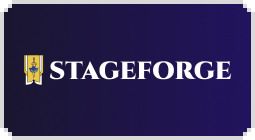
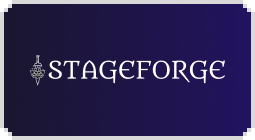
docs: added MoodForge

Changed region(s): [[0.0824, 0.3714, 0.9059, 0.6286]]

diff --git a/style/style.css b/style/style.css
@@ -1,1 +1,1 @@
-:root{--color-text: #ffffff;--color-text-hover: #cccccc;--color-bg-primary: #13102b;--color-bg-secondary: #181435;--color-link: #ffffff;--font-base: "Montserrat", sans-serif;--font-size-h2: 32px;--font-size-h3-lg: 18px;--font-size-h3-sm: 16px;--font-size-body: 13px;--font-weight-light: 300;--space-xs: 4px;--space-sm: 8px;--space-md: 16px;--space-lg: 32px;--space-xl: 48px;--grid-columns: 12;--grid-max-width: 1120px}html,body{margin:0;padding:0;background-color:#13102b}body{color:var(--color-text);font-family:var(--font-base);background:none}h1{display:none}h2{font-size:var(--font-size-h2);font-weight:var(--font-weight-light);margin:0}a{color:var(--color-text);text-decoration:none;transition:ease-in 200ms}a:hover{color:var(--color-text-hover)}a span{text-decoration:underline}.bg-layer{position:fixed;top:calc(-1*env(safe-area-inset-top));left:calc(-1*env(safe-area-inset-left));right:calc(-1*env(safe-area-inset-right));bottom:calc(-1*env(safe-area-inset-bottom));z-index:-1;background:linear-gradient(180deg, rgb(19, 16, 43) 0%, rgb(19, 16, 43) 25%, rgb(24, 20, 53) 25%, rgb(24, 20, 53) 41%, rgb(28, 24, 61) 41%, rgb(28, 24, 61) 54%, rgb(30, 27, 70) 54%, rgb(30, 27, 70) 70%, rgb(35, 31, 82) 70%, rgb(35, 31, 82) 100%);transform:translateZ(0);will-change:transform}.container{display:grid;grid-template-columns:1fr;gap:var(--space-lg);width:100%;max-width:var(--grid-max-width);margin:var(--space-lg) auto;padding:0 var(--space-md);box-sizing:border-box}@media(min-width: 768px){.container{grid-template-columns:repeat(var(--grid-columns), 1fr);gap:var(--space-xl)}}header{grid-column:1/-1;text-align:center}header p{font-size:var(--font-size-h3-lg)}@media(min-width: 768px){header{grid-column:3/10}}.section-block{grid-column:1/-1;display:grid;grid-template-columns:1fr;gap:var(--space-lg)}@media(min-width: 768px){.section-block{grid-template-columns:repeat(var(--grid-columns), 1fr)}}.section-block h2{grid-column:1/13;font-size:var(--font-size-h2);font-weight:var(--font-weight-light)}.section-block img{max-width:100%}project-card{grid-column:span 3;font-weight:var(--font-weight-light)}@media(max-width: 768px){project-card{grid-column:span 12}}project-card h3{margin:0 0 var(--space-xs);font-weight:var(--font-weight-light)}project-card p{font-size:var(--font-size-body);margin:0}project-card .description{margin:var(--space-md) 0}project-card h3{font-size:var(--font-size-h3-lg)}person-card{grid-column:span 3;font-weight:var(--font-weight-light)}@media(max-width: 768px){person-card{grid-column:span 12}}person-card h3{margin:0 0 var(--space-xs);font-weight:var(--font-weight-light)}person-card p{font-size:var(--font-size-body);margin:0}person-card .description{margin:var(--space-md) 0}person-card h3{font-size:var(--font-size-h3-sm)}.links{display:flex;gap:var(--space-sm)}.links a{display:inline-flex;align-items:center;gap:var(--space-sm)}.icon{width:16px;height:16px}
+:root{--color-text: #ffffff;--color-text-hover: #cccccc;--color-bg-primary: #13102b;--color-bg-secondary: #181435;--color-link: #ffffff;--font-base: "Montserrat", sans-serif;--font-size-h2: 32px;--font-size-h3-lg: 18px;--font-size-h3-sm: 16px;--font-size-body: 13px;--font-weight-light: 300;--space-xs: 4px;--space-sm: 8px;--space-sm-md: 12px;--space-md: 16px;--space-lg: 32px;--space-xl: 48px;--grid-columns: 12;--grid-max-width: 1120px;--background-layer-01: rgba(19, 16, 43, 1);--background-layer-02: rgba(24, 20, 53, 1);--background-layer-03: rgba(28, 24, 61, 1);--background-layer-04: rgba(30, 27, 70, 1);--background-layer-05: rgba(35, 31, 82, 1)}html,body{margin:0;padding:0;background-color:#13102b}body{color:var(--color-text);font-family:var(--font-base);background:none}h1{display:none}h2{font-size:var(--font-size-h2);font-weight:var(--font-weight-light);margin:0}a{color:var(--color-text);text-decoration:none;transition:ease-in 200ms}a:hover{color:var(--color-text-hover)}a span{text-decoration:underline}.bg-layer{position:fixed;top:calc(-1*env(safe-area-inset-top));left:calc(-1*env(safe-area-inset-left));right:calc(-1*env(safe-area-inset-right));bottom:calc(-1*env(safe-area-inset-bottom));z-index:-1;background:linear-gradient(180deg, var(--background-layer-01) 0%, var(--background-layer-01) 25%, var(--background-layer-02) 25%, var(--background-layer-02) 41%, var(--background-layer-03) 41%, var(--background-layer-03) 54%, var(--background-layer-04) 54%, var(--background-layer-04) 70%, var(--background-layer-05) 70%, var(--background-layer-05) 100%);transform:translateZ(0);will-change:transform}.container{display:grid;grid-template-columns:1fr;gap:var(--space-lg);width:100%;max-width:var(--grid-max-width);margin:var(--space-lg) auto;padding:0 var(--space-md);box-sizing:border-box}@media(min-width: 768px){.container{grid-template-columns:repeat(var(--grid-columns), 1fr);gap:var(--space-xl)}}header{grid-column:1/-1;text-align:center}header p{font-size:var(--font-size-h3-lg)}@media(min-width: 768px){header{grid-column:3/10}}.section-block{grid-column:1/-1;display:grid;grid-template-columns:1fr;gap:var(--space-lg)}@media(min-width: 768px){.section-block{grid-template-columns:repeat(var(--grid-columns), 1fr)}}.section-block h2{grid-column:1/13;font-size:var(--font-size-h2);font-weight:var(--font-weight-light)}.section-block img{max-width:100%}project-card{grid-column:span 3;font-weight:var(--font-weight-light)}@media(max-width: 768px){project-card{grid-column:span 12}}project-card h3{margin:0 0 var(--space-xs);font-weight:var(--font-weight-light)}project-card p{font-size:var(--font-size-body);margin:0}project-card .description{margin:var(--space-md) 0}project-card h3{font-size:var(--font-size-h3-lg)}person-card{grid-column:span 3;font-weight:var(--font-weight-light)}@media(max-width: 768px){person-card{grid-column:span 12}}person-card h3{margin:0 0 var(--space-xs);font-weight:var(--font-weight-light)}person-card p{font-size:var(--font-size-body);margin:0}person-card .description{margin:var(--space-md) 0}@media screen and (max-width: 768px){person-card{display:flex;gap:var(--space-md)}person-card .description{margin:0}}person-card h3{font-size:var(--font-size-h3-sm)}.links{display:flex;gap:var(--space-sm);margin-top:var(--space-md)}.links a{display:inline-flex;align-items:center;gap:var(--space-sm)}@media screen and (max-width: 768px){.person-image{width:120px;height:120px}}.icon{width:var(--space-md);height:var(--space-md)}

diff --git a/components/dist/personCard.dev.js b/components/dist/personCard.dev.js
@@ -1,0 +1,55 @@
+"use strict";
+
+function _typeof(obj) { if (typeof Symbol === "function" && typeof Symbol.iterator === "symbol") { _typeof = function _typeof(obj) { return typeof obj; }; } else { _typeof = function _typeof(obj) { return obj && typeof Symbol === "function" && obj.constructor === Symbol && obj !== Symbol.prototype ? "symbol" : typeof obj; }; } return _typeof(obj); }
+
+function _classCallCheck(instance, Constructor) { if (!(instance instanceof Constructor)) { throw new TypeError("Cannot call a class as a function"); } }
+
+function _defineProperties(target, props) { for (var i = 0; i < props.length; i++) { var descriptor = props[i]; descriptor.enumerable = descriptor.enumerable || false; descriptor.configurable = true; if ("value" in descriptor) descriptor.writable = true; Object.defineProperty(target, descriptor.key, descriptor); } }
+
+function _createClass(Constructor, protoProps, staticProps) { if (protoProps) _defineProperties(Constructor.prototype, protoProps); if (staticProps) _defineProperties(Constructor, staticProps); return Constructor; }
+
+function _possibleConstructorReturn(self, call) { if (call && (_typeof(call) === "object" || typeof call === "function")) { return call; } return _assertThisInitialized(self); }
+
+function _assertThisInitialized(self) { if (self === void 0) { throw new ReferenceError("this hasn't been initialised - super() hasn't been called"); } return self; }
+
+function _inherits(subClass, superClass) { if (typeof superClass !== "function" && superClass !== null) { throw new TypeError("Super expression must either be null or a function"); } subClass.prototype = Object.create(superClass && superClass.prototype, { constructor: { value: subClass, writable: true, configurable: true } }); if (superClass) _setPrototypeOf(subClass, superClass); }
+
+function _wrapNativeSuper(Class) { var _cache = typeof Map === "function" ? new Map() : undefined; _wrapNativeSuper = function _wrapNativeSuper(Class) { if (Class === null || !_isNativeFunction(Class)) return Class; if (typeof Class !== "function") { throw new TypeError("Super expression must either be null or a function"); } if (typeof _cache !== "undefined") { if (_cache.has(Class)) return _cache.get(Class); _cache.set(Class, Wrapper); } function Wrapper() { return _construct(Class, arguments, _getPrototypeOf(this).constructor); } Wrapper.prototype = Object.create(Class.prototype, { constructor: { value: Wrapper, enumerable: false, writable: true, configurable: true } }); return _setPrototypeOf(Wrapper, Class); }; return _wrapNativeSuper(Class); }
+
+function isNativeReflectConstruct() { if (typeof Reflect === "undefined" || !Reflect.construct) return false; if (Reflect.construct.sham) return false; if (typeof Proxy === "function") return true; try { Date.prototype.toString.call(Reflect.construct(Date, [], function () {})); return true; } catch (e) { return false; } }
+
+function _construct(Parent, args, Class) { if (isNativeReflectConstruct()) { _construct = Reflect.construct; } else { _construct = function _construct(Parent, args, Class) { var a = [null]; a.push.apply(a, args); var Constructor = Function.bind.apply(Parent, a); var instance = new Constructor(); if (Class) _setPrototypeOf(instance, Class.prototype); return instance; }; } return _construct.apply(null, arguments); }
+
+function _isNativeFunction(fn) { return Function.toString.call(fn).indexOf("[native code]") !== -1; }
+
+function _setPrototypeOf(o, p) { _setPrototypeOf = Object.setPrototypeOf || function _setPrototypeOf(o, p) { o.__proto__ = p; return o; }; return _setPrototypeOf(o, p); }
+
+function _getPrototypeOf(o) { _getPrototypeOf = Object.setPrototypeOf ? Object.getPrototypeOf : function _getPrototypeOf(o) { return o.__proto__ || Object.getPrototypeOf(o); }; return _getPrototypeOf(o); }
+
+var PersonCard =
+/*#__PURE__*/
+function (_HTMLElement) {
+  _inherits(PersonCard, _HTMLElement);
+
+  function PersonCard() {
+    _classCallCheck(this, PersonCard);
+
+    return _possibleConstructorReturn(this, _getPrototypeOf(PersonCard).apply(this, arguments));
+  }
+
+  _createClass(PersonCard, [{
+    key: "connectedCallback",
+    value: function connectedCallback() {
+      var image = this.getAttribute("image");
+      var name = this.getAttribute("name");
+      var description = this.getAttribute("description");
+      var instagram = this.getAttribute("instagram");
+      var bluesky = this.getAttribute("bluesky");
+      this.innerHTML = "\n          <img class=\"person-image\" src=\"".concat(image, "\" alt=\"").concat(name, "\" />\n          <div class=\"description\">\n            <h3>").concat(name, "</h3>\n            <p>").concat(description, "</p>\n            <div class=\"links\">\n            <a href=\"").concat(instagram, "\" target=\"_blank\" rel=\"noopener\">\n              <img\n                src=\"https://cdn.simpleicons.org/instagram/ffffff\"\n                alt=\"Instagram\"\n                class=\"icon\"\n              />\n              <span>Instagram</span>\n            </a> / <a href=\"").concat(bluesky, "\" target=\"_blank\" rel=\"noopener\">\n              <img\n                src=\"https://cdn.simpleicons.org/bluesky/ffffff\"\n                alt=\"Bluesky\"\n                class=\"icon\"\n              />\n              <span>Bluesky</span>\n            </a>\n          </div>\n          </div>\n      ");
+    }
+  }]);
+
+  return PersonCard;
+}(_wrapNativeSuper(HTMLElement));
+
+customElements.define("person-card", PersonCard);

diff --git a/index.html b/index.html
@@ -1,4 +1,4 @@
-<!DOCTYPE html>
+<!doctype html>
 <html lang="en-US">
   <head>
     <meta charset="utf-8" />
@@ -45,15 +45,22 @@
         <project-card
           image="images/daggersheet.png"
           title="Daggersheet"
-          description="Daggersheet is an app for iOS and Android for managing your RPG sheets for the Daggerheart system"
+          description="Daggersheet is an app for iOS and Android for managing your RPG sheets for the Daggerheart system, with a system of leveling up, health and fear management, and more."
           href="https://github.com/Pixel-Dawn-Collective/Daggersheet"
         ></project-card>
 
         <project-card
           image="images/stageforge.png"
           title="StageForge"
-          description="StageForge is a web app for displaying your characters and scenarios for your tabletop RPG gaming sessions."
+          description="StageForge is a web app for displaying your characters and scenarios for your RPG gaming sessions, like a visual novel, bringing a whole new level of immersion in your table."
           href="https://github.com/Pixel-Dawn-Collective/StageForge"
+        ></project-card>
+
+        <project-card
+          image="images/moodforge.png"
+          title="MoodForge"
+          description=" Moodforge is a web app designed for sound ambience in RPG sessions. It allows you to control soundtracks and sound effects, with a strong focus on immersion during gameplay."
+          href="https://github.com/Pixel-Dawn-Collective/MoodForge"
         ></project-card>
       </section>
 

diff --git a/style/dist/_components.css b/style/dist/_components.css
@@ -1,5 +1,6 @@
 :root {
   --color-text: #ffffff;
+  --color-text-hover: #cccccc;
   --color-bg-primary: #13102b;
   --color-bg-secondary: #181435;
   --color-link: #ffffff;
@@ -11,11 +12,17 @@
   --font-weight-light: 300;
   --space-xs: 4px;
   --space-sm: 8px;
+  --space-sm-md: 12px;
   --space-md: 16px;
   --space-lg: 32px;
   --space-xl: 48px;
   --grid-columns: 12;
   --grid-max-width: 1120px;
+  --background-layer-01: rgba(19, 16, 43, 1);
+  --background-layer-02: rgba(24, 20, 53, 1);
+  --background-layer-03: rgba(28, 24, 61, 1);
+  --background-layer-04: rgba(30, 27, 70, 1);
+  --background-layer-05: rgba(35, 31, 82, 1);
 }
 
 project-card {
@@ -62,6 +69,15 @@ person-card p {
 person-card .description {
   margin: var(--space-md) 0;
 }
+@media screen and (max-width: 768px) {
+  person-card {
+    display: flex;
+    gap: var(--space-md);
+  }
+  person-card .description {
+    margin: 0;
+  }
+}
 person-card h3 {
   font-size: var(--font-size-h3-sm);
 }
@@ -69,6 +85,7 @@ person-card h3 {
 .links {
   display: flex;
   gap: var(--space-sm);
+  margin-top: var(--space-md);
 }
 .links a {
   display: inline-flex;
@@ -76,7 +93,14 @@ person-card h3 {
   gap: var(--space-sm);
 }
 
+@media screen and (max-width: 768px) {
+  .person-image {
+    width: 120px;
+    height: 120px;
+  }
+}
+
 .icon {
-  width: 16px;
-  height: 16px;
+  width: var(--space-md);
+  height: var(--space-md);
 }

diff --git a/components/personCard.js b/components/personCard.js
@@ -7,12 +7,11 @@ class PersonCard extends HTMLElement {
     const bluesky = this.getAttribute("bluesky");
 
     this.innerHTML = `
-          <img src="${image}" alt="${name}" />
+          <img class="person-image" src="${image}" alt="${name}" />
           <div class="description">
             <h3>${name}</h3>
             <p>${description}</p>
-          </div>
-          <div class="links">
+            <div class="links">
             <a href="${instagram}" target="_blank" rel="noopener">
               <img
                 src="https://cdn.simpleicons.org/instagram/ffffff"
@@ -28,6 +27,7 @@ class PersonCard extends HTMLElement {
               />
               <span>Bluesky</span>
             </a>
+          </div>
           </div>
       `;
   }

diff --git a/style/_components.scss b/style/_components.scss
@@ -11,6 +11,15 @@ project-card {
 person-card {
   @include abstracts.card-base;
 
+  @media screen and (max-width: 768px) {
+    display: flex;
+    gap: var(--space-md);
+
+    .description {
+      margin: 0;
+    }
+  }
+
   h3 {
     font-size: var(--font-size-h3-sm);
   }
@@ -19,6 +28,7 @@ person-card {
 .links {
   display: flex;
   gap: var(--space-sm);
+  margin-top: var(--space-md);
 
   a {
     display: inline-flex;
@@ -27,7 +37,14 @@ person-card {
   }
 }
 
+.person-image {
+  @media screen and (max-width: 768px) {
+    width: 120px;
+    height: 120px;
+  }
+}
+
 .icon {
-  width: 16px;
-  height: 16px;
+  width: var(--space-md);
+  height: var(--space-md);
 }

diff --git a/style/dist/_tokens.css b/style/dist/_tokens.css
@@ -12,9 +12,15 @@
   --font-weight-light: 300;
   --space-xs: 4px;
   --space-sm: 8px;
+  --space-sm-md: 12px;
   --space-md: 16px;
   --space-lg: 32px;
   --space-xl: 48px;
   --grid-columns: 12;
   --grid-max-width: 1120px;
+  --background-layer-01: rgba(19, 16, 43, 1);
+  --background-layer-02: rgba(24, 20, 53, 1);
+  --background-layer-03: rgba(28, 24, 61, 1);
+  --background-layer-04: rgba(30, 27, 70, 1);
+  --background-layer-05: rgba(35, 31, 82, 1);
 }

diff --git a/style/_tokens.scss b/style/_tokens.scss
@@ -15,6 +15,7 @@
 
   --space-xs: 4px;
   --space-sm: 8px;
+  --space-sm-md: 12px;
   --space-md: 16px;
   --space-lg: 32px;
   --space-xl: 48px;
